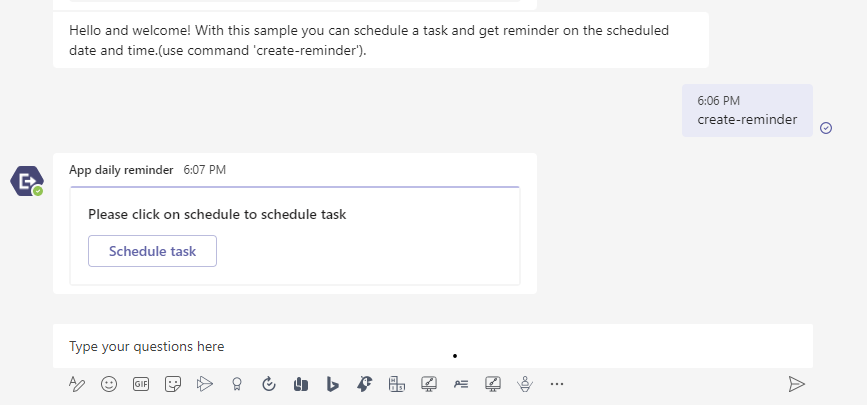
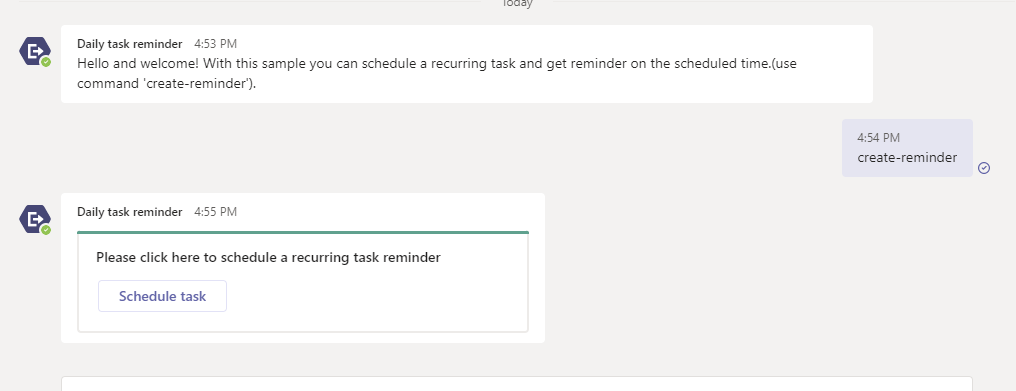
PR fixes for bot-reminder nodejs sample

diff --git a/samples/bot-task-reminder/nodejs/bots/teamsBot.js b/samples/bot-task-reminder/nodejs/bots/teamsBot.js
@@ -16,7 +16,7 @@ class TeamsBot extends TeamsActivityHandler {
             const membersAdded = context.activity.membersAdded;
             for (let member = 0; member < membersAdded.length; member++) {
                 if (membersAdded[member].id !== context.activity.recipient.id) {
-                    await context.sendActivity("Hello and welcome! With this sample you can schedule a task and get reminder on the scheduled date and time.(use command 'create-reminder')");
+                    await context.sendActivity("Hello and welcome! With this sample you can schedule a recurring task and get a reminder on the scheduled time.(use command 'create-reminder')");
                 }
             }
 
@@ -43,7 +43,7 @@ class TeamsBot extends TeamsActivityHandler {
             taskInfo.url = taskInfo.fallbackUrl = this.baseUrl + "/scheduleTask";
             taskInfo.height = 350;
             taskInfo.width = 350;
-            taskInfo.title = "Schedule task";
+            taskInfo.title = "Schedule a task";
         }
 
         return TaskModuleResponseFactory.toTaskModuleResponse(taskInfo);
@@ -60,7 +60,7 @@ class TeamsBot extends TeamsActivityHandler {
         };
 
         this.saveTaskDetails(taskDetails);
-        await context.sendActivity("Task submitted successfully. You will get reminder for the task at scheduled time");
+        await context.sendActivity("Task submitted successfully, you will get a recurring reminder for the task at a scheduled time");
 
         const currentUser = context.activity.from.id;
         conversationReferences[currentUser] = TurnContext.getConversationReference(context.activity);
@@ -84,7 +84,7 @@ class TeamsBot extends TeamsActivityHandler {
                             type: "TextBlock",
                             size: "Default",
                             weight: "Bolder",
-                            text: "Reminder for scheduled task!"
+                            text: "Reminder for a scheduled task!"
                         },
                         {
                             type: "TextBlock",

diff --git a/README.md b/README.md
@@ -149,7 +149,7 @@ Here are all the samples which are deployed on Microsoft Azure and you can try i
 |14| App Installtion  using QR code |This sample demos app installation using QR code of application's app id | [View][qrappinstallation#csharp] | [View][qrappinstallation#nodejs]
 |15| Archive groupchat messages | Demonstrating on how a bot can archive groupchat messages and send it to user as a file. | [View][fetchgroupchatmessages#csharp] |[View][fetchgroupchatmessages#nodejs]|
 |16| App check in location | Demonstrating feature where user can checkin with current location and view all previous checkins. | [View][appcheckinlocation#csharp] |[View][checkinlocation#nodejs]|
-|17| Bot task reminder | Demonstrating feature where user can schedule a task and get reminder on the scheduled date and time | |[View][bottaskreminder#nodejs]|
+|17| Bot daily task reminder | This sample demos a feature where user can schedule a recurring task and get a reminder on the scheduled time | |[View][bottaskreminder#nodejs]|
 
 [app-hello-world#cs]:samples/app-hello-world/csharp
 [app-hello-world#ts]:samples/app-hello-world/nodejs

diff --git a/samples/bot-task-reminder/nodejs/Readme.md b/samples/bot-task-reminder/nodejs/Readme.md
@@ -1,6 +1,8 @@
 ## Bot task reminder
 
-This sample shows feature where user can schedule a task and get reminder on the scheduled date and time.
+This sample shows a feature where user can schedule a recurring task and get the reminder at scheduled time.
+
+Type command create-reminder to get card for scheduling the recurring task.
 
 ![Schedule task ](Images/ScheduleTaskCard.png)
 
